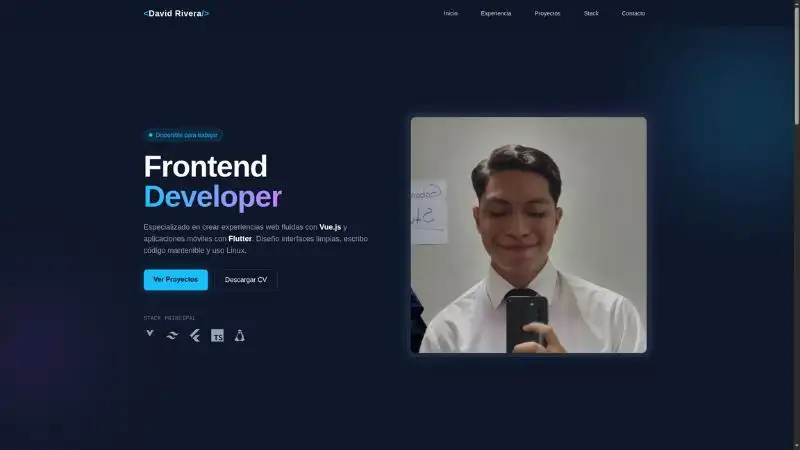
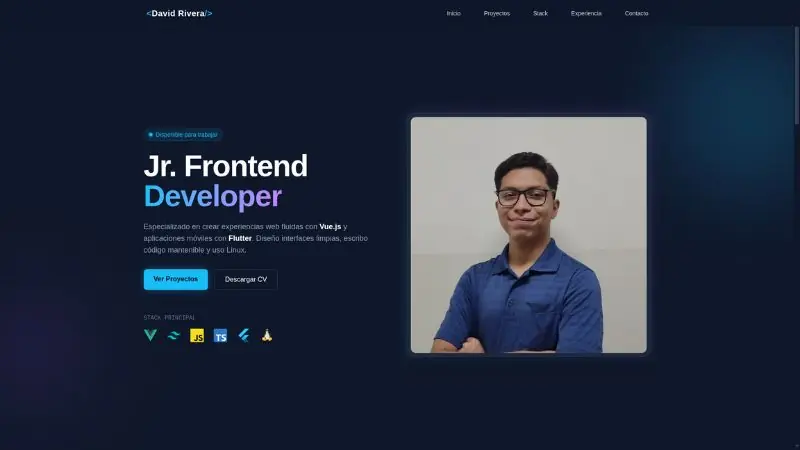
feat: actualización de la imagen la sección Hero y del proyecto 3 del portafolio

diff --git a/index.html b/index.html
@@ -70,7 +70,7 @@
       <div class="progress-bar-wrapper">
         <div class="progress-bar"></div>
       </div>
-      <div class="status-text">Bienvenido...</div>
+      <div class="status-text">Bienvenido</div>
     </div>
 
     <div id="app"></div>
